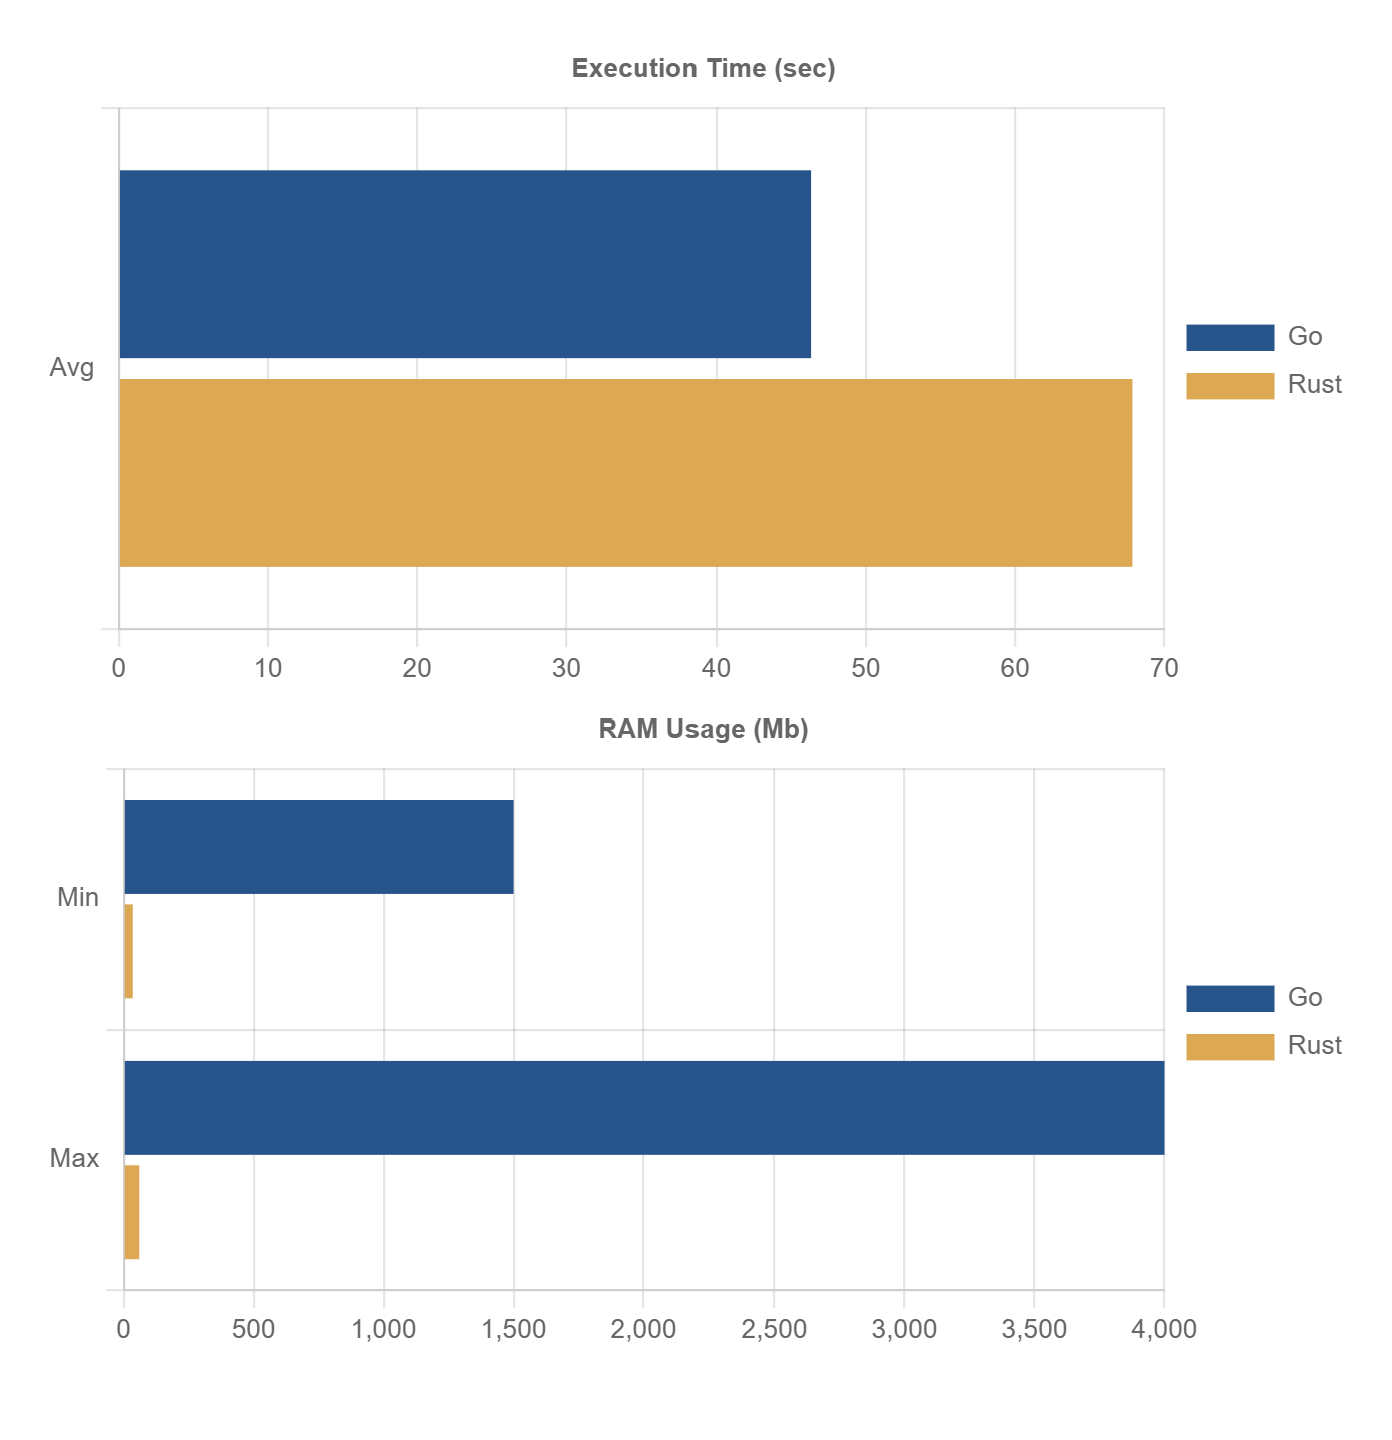
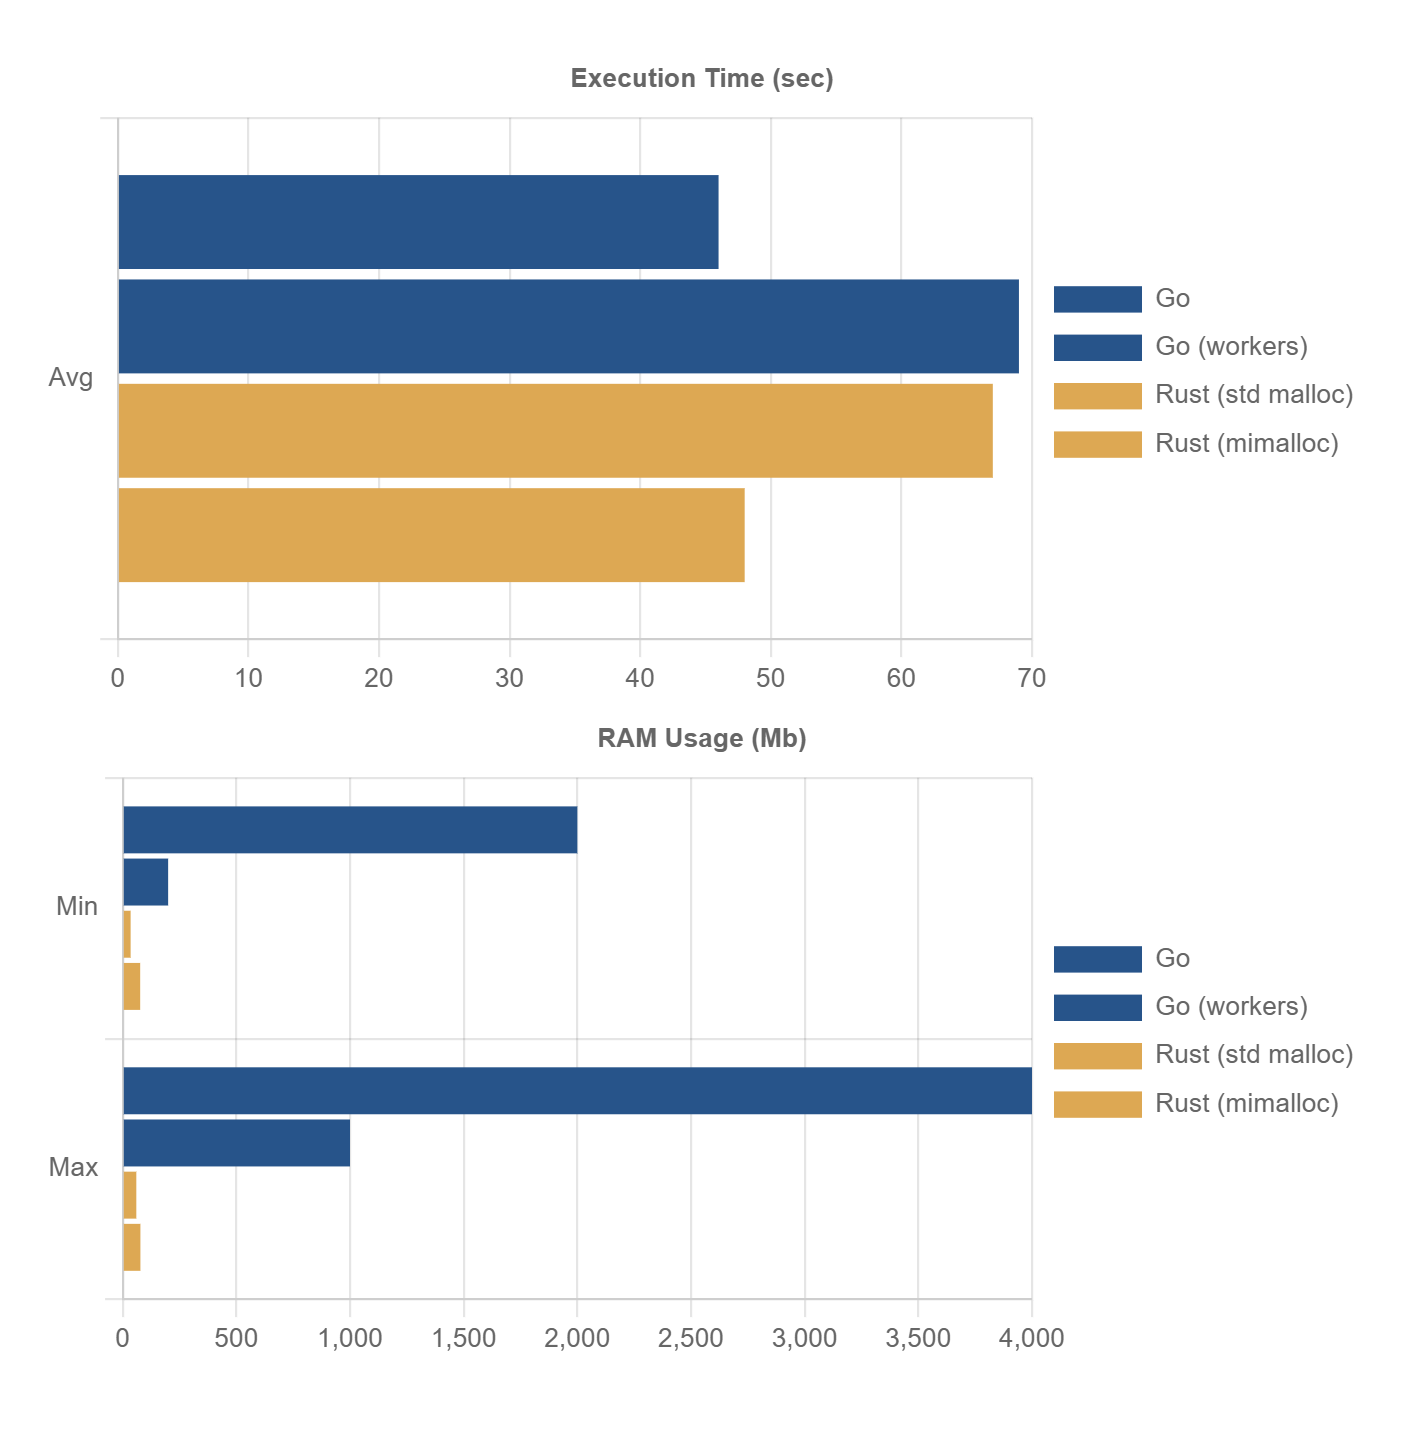
Go: added test with CPU workers

diff --git a/charts.html b/charts.html
@@ -35,16 +35,29 @@
       datasets: [
         {
           label: 'Go',
-          data: [46.32],
+          data: [46],
           backgroundColor: '#27548A',
           borderWidth: 0
         },
         {
-          label: 'Rust',
-          data: [67.85],
+          label: 'Go (workers)',
+          data: [69],
+          backgroundColor: '#27548A',
+          borderWidth: 0
+        },
+        {
+          label: 'Rust (std malloc)',
+          data: [67],
           backgroundColor: '#DDA853',
           borderWidth: 0
-        }
+        },
+        {
+          label: 'Rust (mimalloc)',
+          data: [48],
+          backgroundColor: '#DDA853',
+          borderWidth: 0
+        },
+
       ]
     };
 
@@ -56,13 +69,25 @@
       datasets: [
         {
           label: 'Go',
-          data: [1500, 4000],
+          data: [2000, 4000],
           backgroundColor: '#27548A',
           borderWidth: 0
         },
         {
-          label: 'Rust',
+          label: 'Go (workers)',
+          data: [200, 1000],
+          backgroundColor: '#27548A',
+          borderWidth: 0
+        },
+        {
+          label: 'Rust (std malloc)',
           data: [35, 60],
+          backgroundColor: '#DDA853',
+          borderWidth: 0
+        },
+        {
+          label: 'Rust (mimalloc)',
+          data: [77, 78],
           backgroundColor: '#DDA853',
           borderWidth: 0
         }

diff --git a/go/main.go b/go/main.go
@@ -3,6 +3,7 @@ package main
 import (
 	"fmt"
 	"math"
+	"sync"
 	"time"
 )
 
@@ -14,71 +15,93 @@ type SomeData struct {
 	Age  uint32
 }
 
-func testNoPool(ch chan float64) {
+var cpu *cpuWorkers[float64] = NewCpuWorkers[float64]()
+
+// var pool *Pool[SomeData] = new(Pool[SomeData])
+
+var pool = sync.Pool{
+	New: func() any {
+		return new(SomeData)
+	},
+}
+
+func doWork() float64 {
+	start := time.Now()
+	dataMap := make(map[string]SomeData)
+	var sum uint64 = 0
+
+	for j := uint32(0); j < VALUES_NUM; j++ {
+		name := fmt.Sprintf("name-%d", j)
+
+		dataMap[name] = SomeData{
+			Name: name,
+			Age:  j,
+		}
+
+		val, exists := dataMap[name]
+		if exists && val.Name == name {
+			sum += uint64(val.Age)
+		}
+	}
+	return time.Since(start).Seconds()
+}
+
+func doWorkWithPool() float64 {
+	start := time.Now()
+	dataMap := make(map[string]*SomeData)
+	var sum uint64 = 0
+
+	for j := uint32(0); j < VALUES_NUM; j++ {
+		name := fmt.Sprintf("name-%d", j)
+
+		var data = pool.Get().(*SomeData)
+		data.Name = name
+		data.Age = j
+		dataMap[name] = data
+
+		val, exists := dataMap[name]
+		if exists && val.Name == name {
+			sum += uint64(val.Age)
+		}
+	}
+
+	for k := range dataMap {
+		pool.Put(dataMap[k])
+	}
+	return time.Since(start).Seconds()
+}
+
+func testOnlyGoroutines(ch chan float64) {
 	for range TASKS_NUM {
 		go func() {
-			start := time.Now()
-			dataMap := make(map[string]SomeData)
-			var sum uint64 = 0
-
-			for j := uint32(0); j < VALUES_NUM; j++ {
-				name := fmt.Sprintf("name-%d", j)
-
-				dataMap[name] = SomeData{
-					Name: name,
-					Age:  j,
-				}
-
-				val, exists := dataMap[name]
-				if exists && val.Name == name {
-					sum += uint64(val.Age)
-				}
-			}
-			// for k := range dataMap {
-			// 	delete(dataMap, k)
-			// }
-			ch <- time.Since(start).Seconds()
+			ch <- doWork()
 		}()
 	}
 }
 
-func testWithPool(ch chan float64) {
-	pool := new(Pool[SomeData])
-
+func testWithCpuWorkers(ch chan float64) {
 	for range TASKS_NUM {
 		go func() {
-			start := time.Now()
-			dataMap := make(map[string]*SomeData)
-			var sum uint64 = 0
-
-			for j := uint32(0); j < VALUES_NUM; j++ {
-				name := fmt.Sprintf("name-%d", j)
-
-				var data = pool.Get()
-				data.Name = name
-				data.Age = j
-				dataMap[name] = data
-
-				val, exists := dataMap[name]
-				if exists && val.Name == name {
-					sum += uint64(val.Age)
-				}
-			}
-
-			for k := range dataMap {
-				pool.Release(dataMap[k])
-			}
-			ch <- time.Since(start).Seconds()
+			ch <- cpu.DoWork(doWork)
 		}()
 	}
 }
 
-func main() {
+func testWithPoolAndCpuWorkers(ch chan float64) {
+	for range TASKS_NUM {
+		go func() {
+			ch <- cpu.DoWork(doWorkWithPool)
+		}()
+	}
+}
+
+func runTest(name string, testFn func(ch chan float64)) {
+	fmt.Println(name)
+
 	start := time.Now()
 	ch := make(chan float64)
 
-	testNoPool(ch)
-	//testWithPool(ch)
+	testFn(ch)
 
 	taskSum := float64(0)
 	taskMin := math.MaxFloat64
@@ -98,5 +121,15 @@ func main() {
 	total := time.Since(start).Seconds()
 	taskAvg := taskSum / TASKS_NUM
 
-	fmt.Printf("%d tasks, %d items: finished in %.2fs, one task avg %.2fs, min %.2fs, max %.2fs\n", TASKS_NUM, VALUES_NUM, total, taskAvg, taskMin, taskMax)
+	fmt.Printf(" - finished in %.4fs, task avg %.4fs, min %.4fs, max %.4fs\n", total, taskAvg, taskMin, taskMax)
+}
+
+func main() {
+	// runTest("With pure goroutines.", testOnlyGoroutines)
+
+	test2Name := fmt.Sprintf("With CPU workers: %d workers.", cpu.NumWorkers)
+	runTest(test2Name, testWithCpuWorkers)
+
+	test3Name := fmt.Sprintf("With CPU workers and pool: %d workers.", cpu.NumWorkers)
+	runTest(test3Name, testWithPoolAndCpuWorkers)
 }

diff --git a/go/cpu_workers.go b/go/cpu_workers.go
@@ -1,0 +1,29 @@
+package main
+
+import (
+	"runtime"
+)
+
+type cpuWorkers[T any] struct {
+	sem        chan struct{}
+	NumWorkers int
+}
+
+func NewCpuWorkers[T any]() *cpuWorkers[T] {
+	w := &cpuWorkers[T]{
+		sem:        make(chan struct{}, runtime.NumCPU()),
+		NumWorkers: runtime.NumCPU(),
+	}
+	return w
+}
+
+func (w *cpuWorkers[T]) DoWork(workFn func() T) T {
+	w.sem <- struct{}{} // acquire slot
+	ch := make(chan T)
+
+	go func() {
+		defer func() { <-w.sem }() // release slot
+		ch <- workFn()
+	}()
+	return <-ch
+}

diff --git a/README.md b/README.md
@@ -21,11 +21,11 @@ cargo run --release
 Windows 10 Pro, Intel(R) Core(TM) i7-9850H CPU @2.60GHz
 
 **Go (goroutines):**
- - finished in 46.61s, task avg 16.77s, min 0.00s, max 46.31s, RAM: 1.5Gb - 4Gb
+ - With pure goroutines: finished in 46.61s, task avg 16.77s, min 0.00s, max 46.31s, RAM: 2Gb - 4Gb
+ - With CPU workers: finished in 69.23s, task avg 0.0079s, min 0.0000s, max 0.0972s, RAM 200-1000Mb
 
 **Rust (tokio tasks):**
  - With default memalloc: finished in 67.67s, task avg 6ms, min 3ms, max 53ms, RAM: 35Mb - 60Mb
-
  - With mimalloc: finished in 48.65s, task avg 4ms, min 3ms, max 59ms, RAM: 78Mb
 
 ![Chart](assets/chart1.png)
